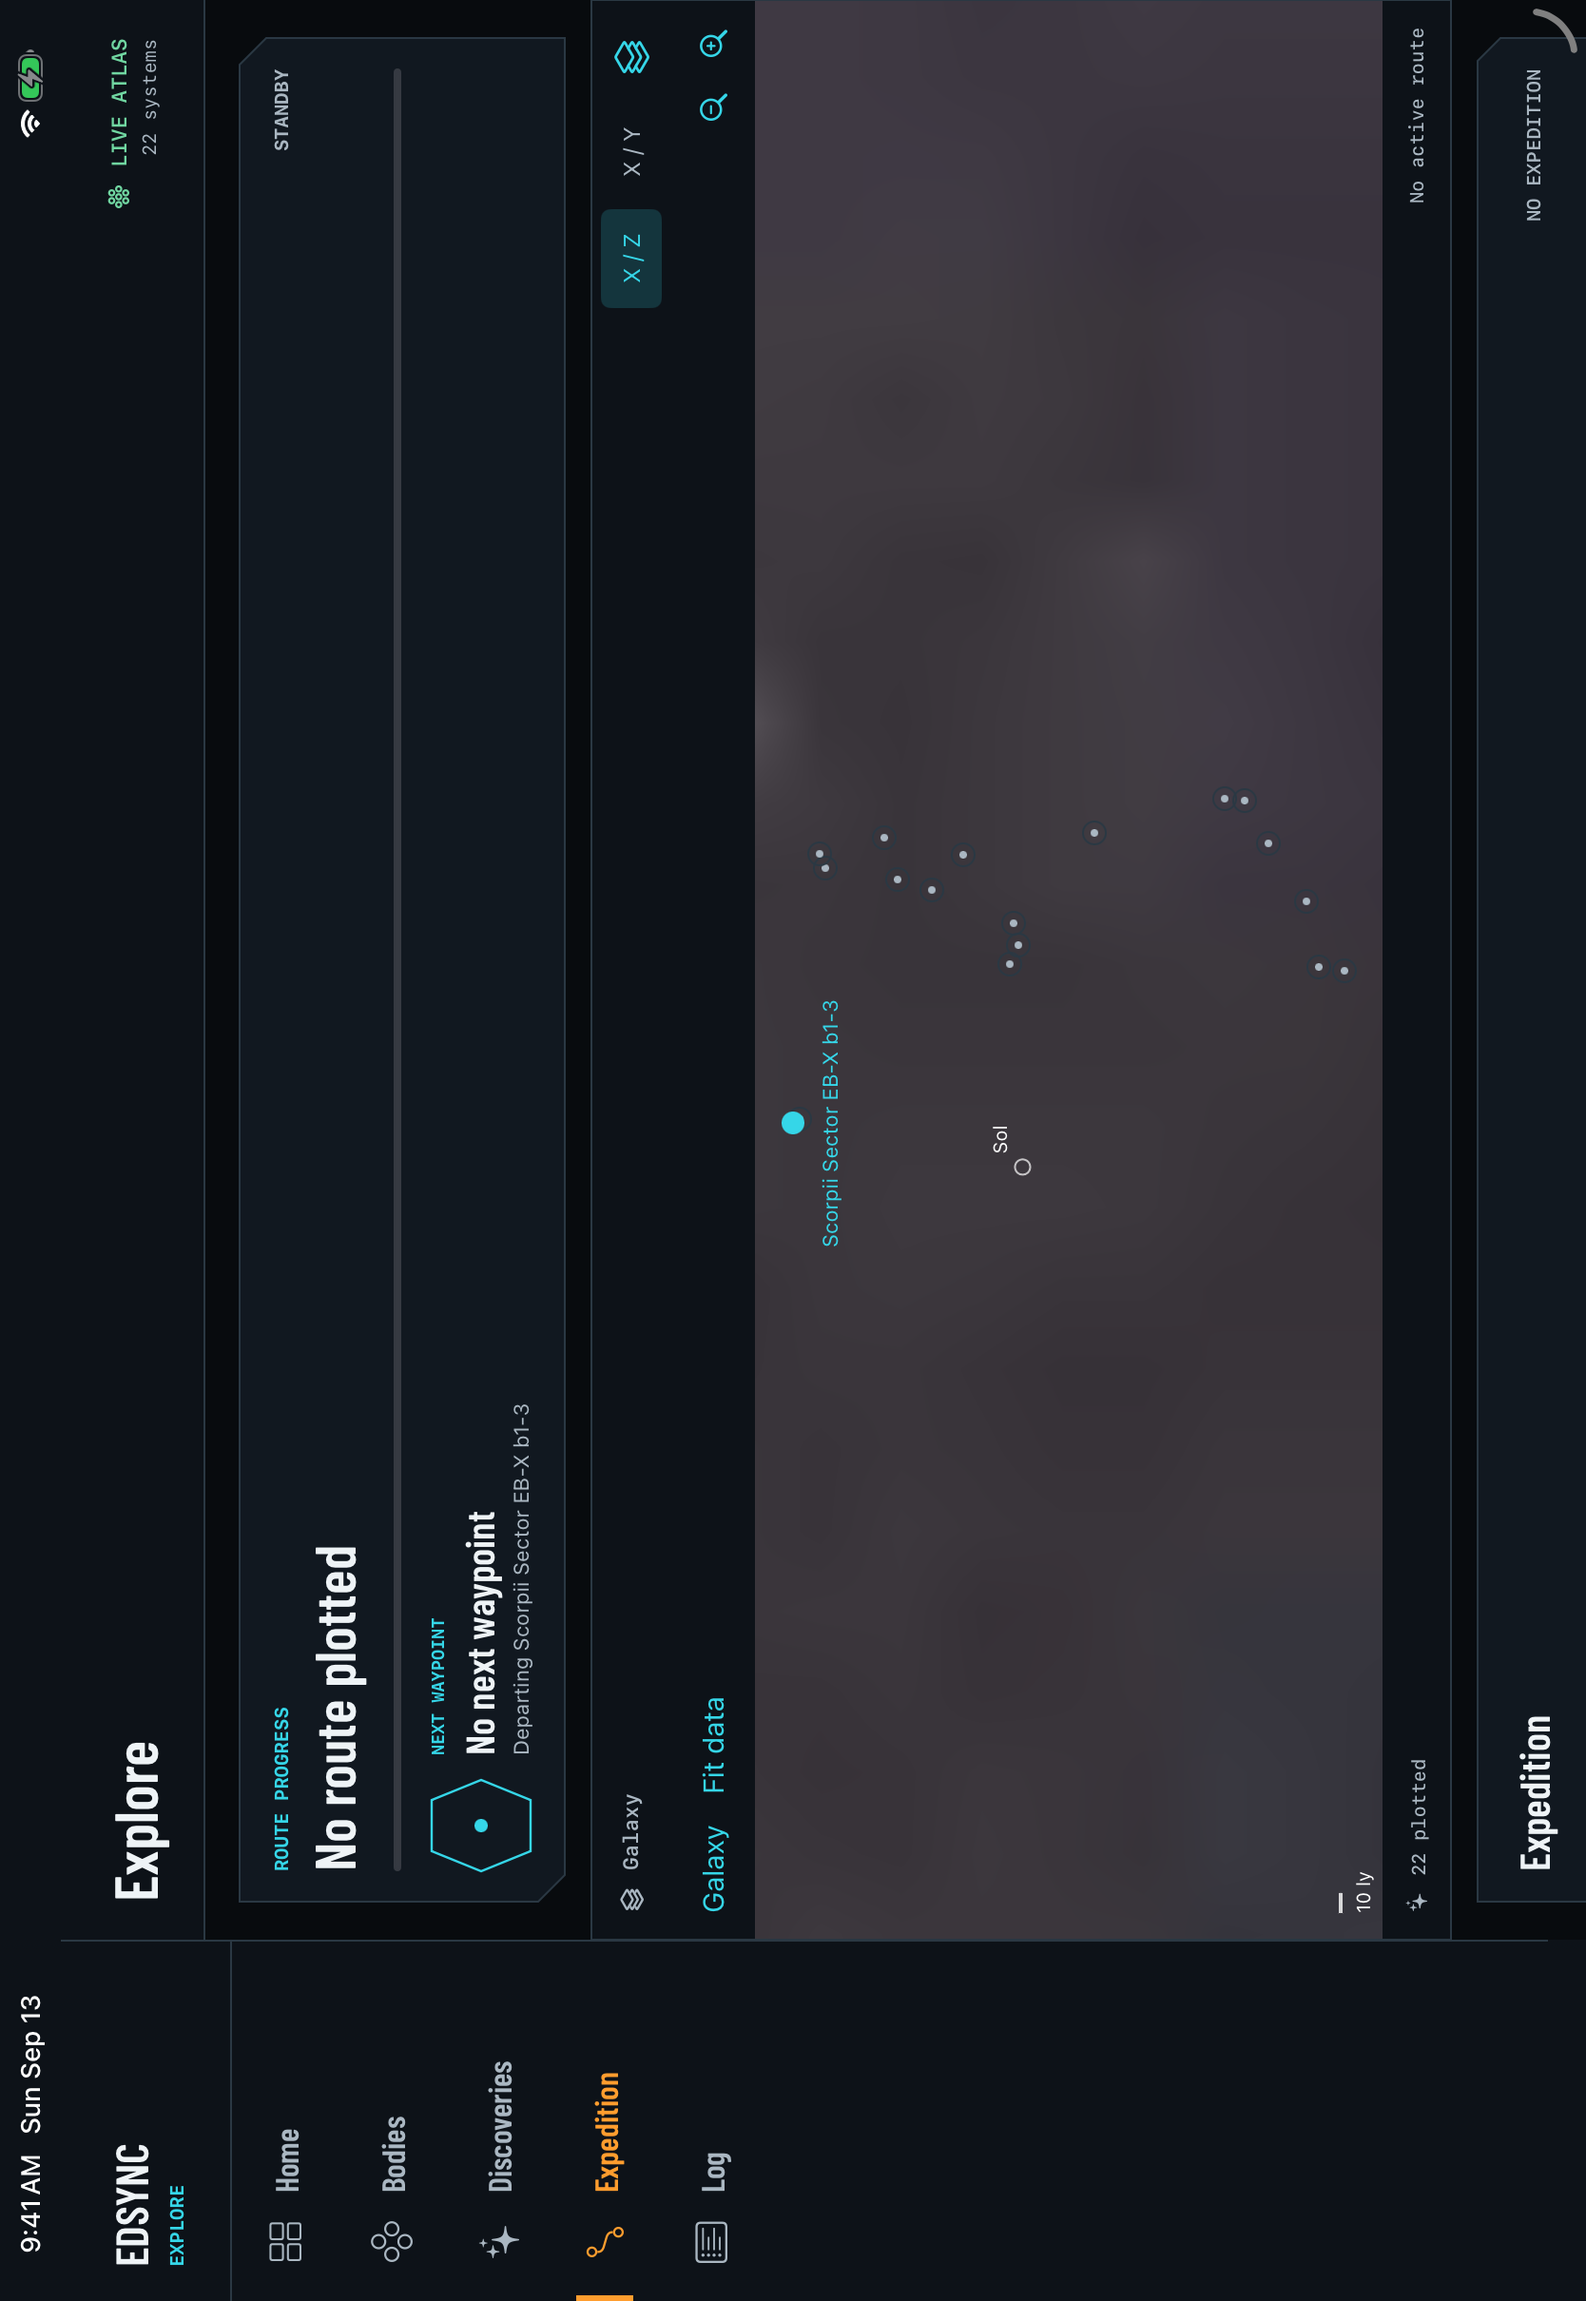
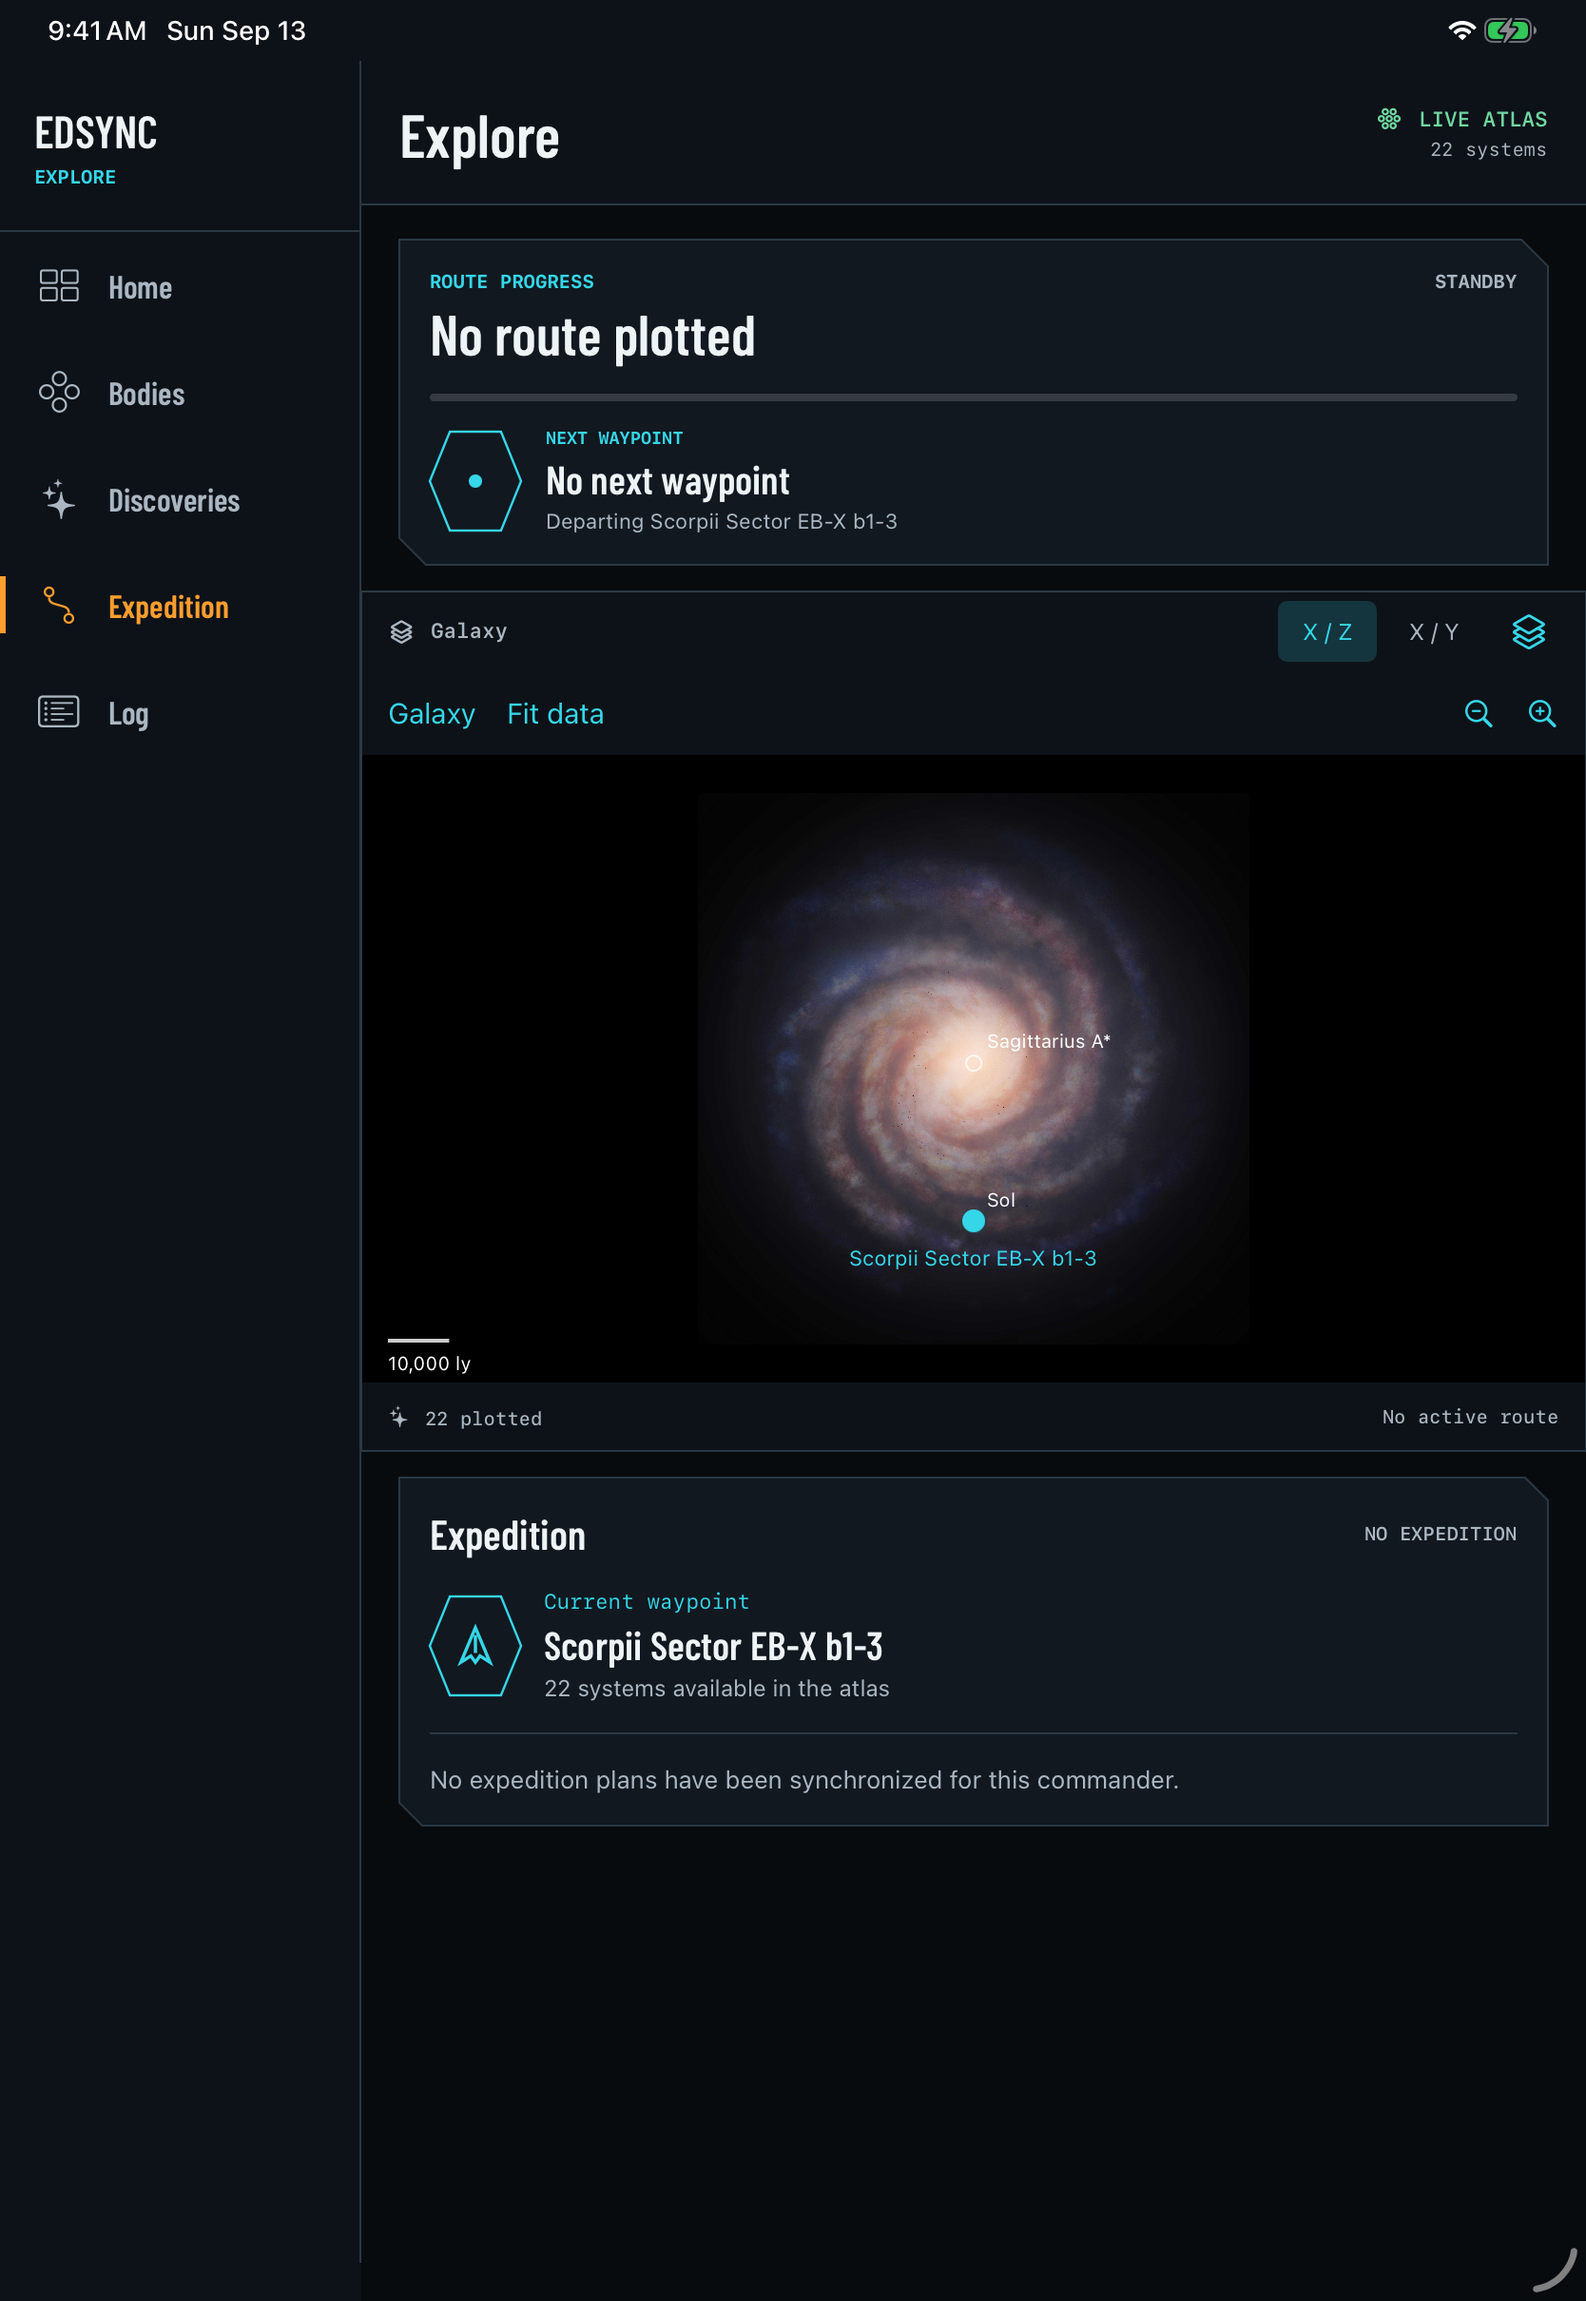
Complete device demo gallery and validate installer release metadata

diff --git a/scripts/test-release-metadata.py b/scripts/test-release-metadata.py
@@ -1,0 +1,28 @@
+"""Verify that unsafe/incomplete release metadata cannot enable downloads."""
+import copy
+import importlib.util
+from pathlib import Path
+import unittest
+spec = importlib.util.spec_from_file_location('updater', Path(__file__).with_name('update-releases.py'))
+updater = importlib.util.module_from_spec(spec)
+spec.loader.exec_module(updater)
+class ReleaseMetadataTests(unittest.TestCase):
+    def setUp(self):
+        self.release = {'draft': False, 'prerelease': False, 'published_at': '2026-09-13T12:00:00Z', 'tag_name': 'v1.0.0', 'assets': [{'name': 'EDSync-Command-Link-1.0.0-win-x64-setup.exe', 'browser_download_url': 'https://github.com/Hinxman/edsync-site/releases/download/v1.0.0/EDSync-Command-Link-1.0.0-win-x64-setup.exe', 'digest': 'sha256:' + 'a' * 64, 'size': 1234, 'state': 'uploaded'}]}
+    def test_missing_platform_stays_unavailable(self):
+        result = updater.manifest(self.release)
+        self.assertIsNone(result['ubuntu'])
+        self.assertEqual(result['windows']['sha256'], 'a' * 64)
+    def test_unpublished_or_prerelease_rejected(self):
+        for field, value in [('draft', True), ('prerelease', True), ('published_at', None)]:
+            release = copy.deepcopy(self.release); release[field] = value
+            with self.assertRaises(ValueError): updater.manifest(release)
+    def test_invalid_assets_rejected(self):
+        for field, value in [('digest', None), ('digest', 'sha256:bad'), ('state', 'starter'), ('size', 0), ('browser_download_url', 'https://example.com/installer.exe')]:
+            release = copy.deepcopy(self.release); release['assets'][0][field] = value
+            with self.assertRaises(ValueError): updater.manifest(release)
+    def test_duplicate_or_missing_installers_rejected(self):
+        for assets in [[], self.release['assets'] * 2]:
+            release = copy.deepcopy(self.release); release['assets'] = assets
+            with self.assertRaises(ValueError): updater.manifest(release)
+if __name__ == '__main__': unittest.main()

diff --git a/README.md b/README.md
@@ -12,7 +12,7 @@ Run `python3 -m http.server 4178` from this directory, then open http://localhos
 
 ## GitHub Pages
 
-Publish from `main`, root `/`, in **Settings → Pages → Deploy from a branch**. `.nojekyll` serves the static files directly. No application build or custom Actions workflow runs in this repository.
+Publish from `master`, root `/`, in **Settings → Pages → Deploy from a branch**. `.nojekyll` serves the static files directly. No application build or custom Actions workflow runs in this repository.
 
 The public website URL above is suitable to supply as the application's homepage during Frontier registration. It is separate from the OAuth redirect URI; hosting this website does not implement or change Frontier authentication.
 
@@ -31,7 +31,7 @@ Include installation requirements, changes and known limitations in the release 
 python3 scripts/update-releases.py v0.1.0
 ```
 
-The helper uses the authenticated GitHub CLI to read that release. It refuses draft/prerelease releases, duplicate installers, unexpected URLs, missing assets and missing SHA-256 digests. It never uploads or publishes a release. It updates `releases.json` atomically using the actual download URL, size and GitHub checksum. A missing platform remains unavailable. Review the manifest, commit and push to `main`; Pages then exposes the verified download links. Use a new release version instead of replacing an existing asset.
+The helper uses the authenticated GitHub CLI to read that release. It refuses draft/prerelease releases, duplicate installers, unexpected URLs, missing assets and missing SHA-256 digests. It never uploads or publishes a release. It updates `releases.json` atomically using the actual download URL, size and GitHub checksum. A missing platform remains unavailable. Review the manifest, commit and push to `master`; Pages then exposes the verified download links. Use a new release version instead of replacing an existing asset.
 
 `null` entries intentionally show “Coming soon.” Do not add placeholder binaries or fake download links. To withdraw a site's download button, set that platform to `null` and publish the change; manage any corresponding GitHub Release separately. The front page's introductory development copy and mobile availability should be updated as part of the first public launch.
 

diff --git a/assets/screenshots/README.md b/assets/screenshots/README.md
@@ -1,0 +1,11 @@
+# Screenshot provenance
+
+Captured 13 September 2026 from the current development apps, using the bundled Demo Mode profile **CMDR Aster Vale**. These are native screen captures, not mockups or composited app interfaces. Website borders and scaling are CSS presentation only.
+
+- `commander.png`, `expedition.png`, `fleet.png`: iPhone 17 Pro simulator, iOS 26.5, 1206 × 2622.
+- `ipad-*.png`: iPad Pro 11-inch (M5) simulator, iOS 26.5, 1668 × 2420.
+- `android-*.png`: connected Lenovo TB305FU Android tablet, 800 × 1340, current app rebuilt and installed for this capture.
+
+Simulator captures use the system status-bar override for time and battery. Android captures retain the device's actual system chrome. Full-size images are linked from the gallery. The sample snapshot has no active route or missions; those states are deliberately preserved.
+
+Game-related imagery remains subject to the credits and notices linked by the site. No personal live commander data or pairing credentials are included.
